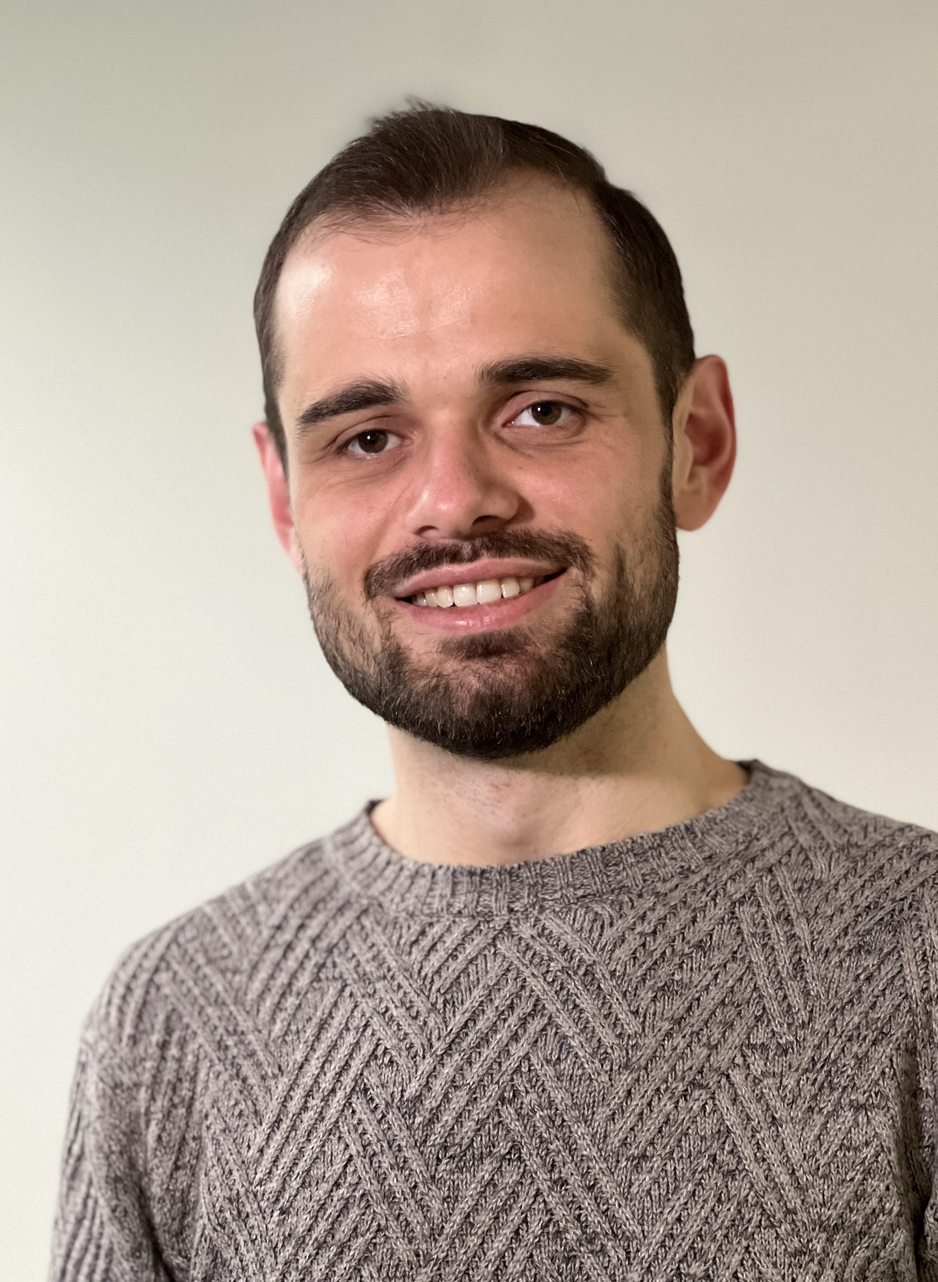
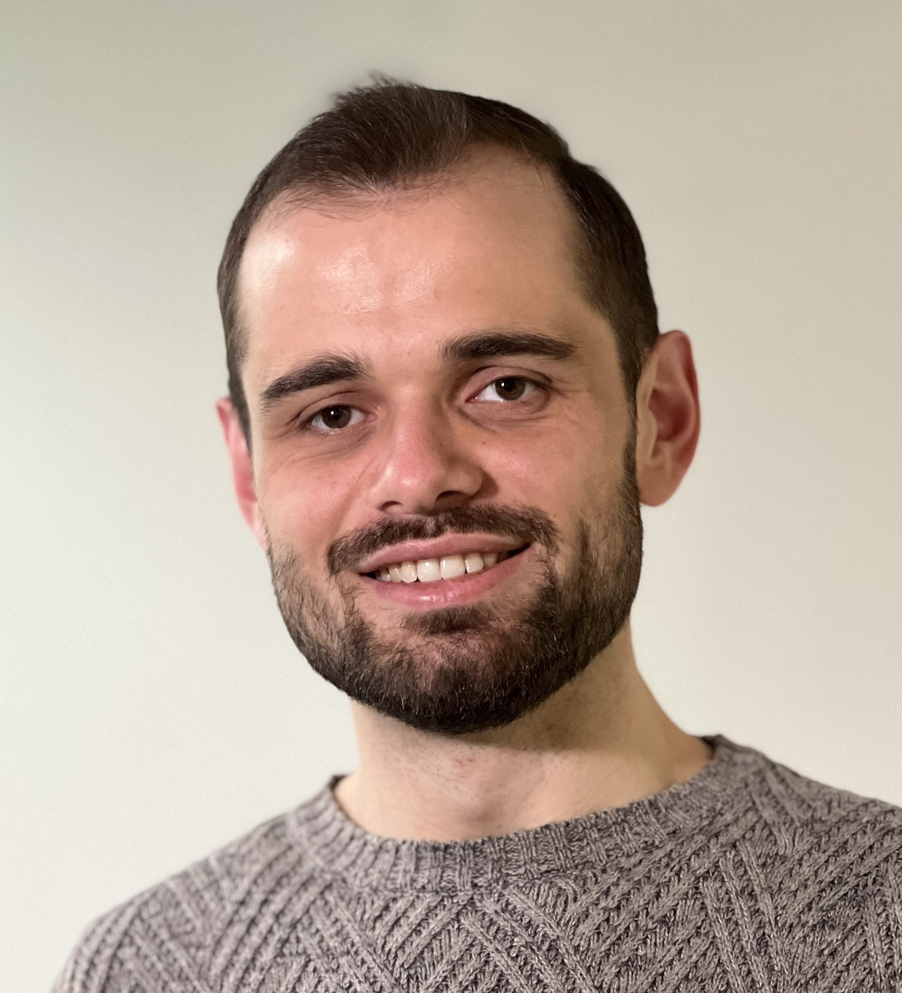
deploy: f099c8f8bb197548e5a86ff91e596ff68f227752

diff --git a/post/social-computing-2020_2021/index.html b/post/social-computing-2020_2021/index.html
@@ -218,7 +218,7 @@ the students. The course is conducted in Italian.</p>
 </ul>
 </div>
 <div class="media author-card content-widget-hr">
-<a href=https://michaelsoprano.com><img class="avatar mr-3 avatar-circle" src=/authors/admin/avatar_hu2347f8c6a0d80f2aa26b5bf3f58114d1_1025127_270x270_fill_q75_lanczos_center.jpg alt="Michael Soprano"></a>
+<a href=https://michaelsoprano.com><img class="avatar mr-3 avatar-circle" src=/authors/admin/avatar_hu88f5d28517d2737b01cd506cf0929cad_816401_270x270_fill_q75_lanczos_center.jpg alt="Michael Soprano"></a>
 <div class=media-body>
 <h5 class=card-title><a href=https://michaelsoprano.com>Michael Soprano</a></h5>
 <h6 class=card-subtitle>Postdoctoral Research Fellow</h6>
@@ -311,8 +311,8 @@ the students. The course is conducted in Italian.</p>
 <h3>Related</h3>
 <ul>
 <li><a href=/post/social-computing-2021_2022/>Social Computing - 2021/2022</a></li>
-<li><a href=/post/social-computing-2022_2023/>Social Computing - 2022/2023</a></li>
 <li><a href=/post/social-computing-2023_2024/>Social Computing - 2022/2023</a></li>
+<li><a href=/post/social-computing-2022_2023/>Social Computing - 2022/2023</a></li>
 <li><a href=/publication/workshop-paper-iir-2023/>Fact-Checking at Scale with Crowdsourcing Experiments and Lessons Learned</a></li>
 <li><a href=/talk/longitudinal-loyalty-understanding-the-barriers-to-running-longitudinal-studies-on-crowdsourcing-platforms/>Longitudinal Loyalty: Understanding the Barriers to Running Longitudinal Studies on Crowdsourcing Platforms</a></li>
 </ul>

diff --git a/publication/workshop-paper-iir-2023/index.html b/publication/workshop-paper-iir-2023/index.html
@@ -231,8 +231,8 @@ Conference paper
 <h3>Related</h3>
 <ul>
 <li><a href=/publication/journal-paper-ipm-2024/>Cognitive Biases in Fact-Checking and Their Countermeasures: A Review</a></li>
-<li><a href=/publication/journal-paper-puc-2021/>Can The Crowd Judge Truthfulness? A Longitudinal Study on Recent Misinformation About COVID-19</a></li>
 <li><a href=/publication/journal-paper-ipm-2021/>The Many Dimensions of Truthfulness: Crowdsourcing Misinformation Assessments on a Multidimensional Scale</a></li>
+<li><a href=/publication/journal-paper-puc-2021/>Can The Crowd Judge Truthfulness? A Longitudinal Study on Recent Misinformation About COVID-19</a></li>
 <li><a href=/publication/conference-paper-facct-2022/>The Effects of Crowd Worker Biases in Fact-Checking Tasks</a></li>
 <li><a href=/talk/can-the-crowd-identify-misinformation-objectively-the-effects-of-judgment-scale-and-assessors-background./>Can The Crowd Identify Misinformation Objectively? The Effects of Judgment Scale and Assessor’s Background.</a></li>
 </ul>

diff --git a/talk/can-the-crowd-identify-misinformation-objectively-the-effects-of-judgment-scale-and-assessors-background./index.html b/talk/can-the-crowd-identify-misinformation-objectively-the-effects-of-judgment-scale-and-assessors-background./index.html
@@ -240,8 +240,8 @@ The 43rd International ACM SIGIR Conference on Research and Development in Infor
 <h3>Related</h3>
 <ul>
 <li><a href=/publication/workshop-paper-iir-2023/>Fact-Checking at Scale with Crowdsourcing Experiments and Lessons Learned</a></li>
-<li><a href=/publication/journal-paper-ipm-2021/>The Many Dimensions of Truthfulness: Crowdsourcing Misinformation Assessments on a Multidimensional Scale</a></li>
 <li><a href=/publication/journal-paper-puc-2021/>Can The Crowd Judge Truthfulness? A Longitudinal Study on Recent Misinformation About COVID-19</a></li>
+<li><a href=/publication/journal-paper-ipm-2021/>The Many Dimensions of Truthfulness: Crowdsourcing Misinformation Assessments on a Multidimensional Scale</a></li>
 <li><a href=/publication/conference-paper-facct-2022/>The Effects of Crowd Worker Biases in Fact-Checking Tasks</a></li>
 <li><a href=/publication/journal-paper-ipm-2024/>Cognitive Biases in Fact-Checking and Their Countermeasures: A Review</a></li>
 </ul>

diff --git a/publication/conference-paper-sigir-2020/index.html b/publication/conference-paper-sigir-2020/index.html
@@ -232,8 +232,8 @@ Conference paper
 <li><a href=/publication/workshop-paper-iir-2023/>Fact-Checking at Scale with Crowdsourcing Experiments and Lessons Learned</a></li>
 <li><a href=/talk/longitudinal-loyalty-understanding-the-barriers-to-running-longitudinal-studies-on-crowdsourcing-platforms/>Longitudinal Loyalty: Understanding the Barriers to Running Longitudinal Studies on Crowdsourcing Platforms</a></li>
 <li><a href=/post/social-computing-2021_2022/>Social Computing - 2021/2022</a></li>
-<li><a href=/post/social-computing-2022_2023/>Social Computing - 2022/2023</a></li>
 <li><a href=/post/social-computing-2023_2024/>Social Computing - 2022/2023</a></li>
+<li><a href=/post/social-computing-2022_2023/>Social Computing - 2022/2023</a></li>
 </ul>
 </div>
 </div>

diff --git a/publication/journal-paper-tois-2023/index.html b/publication/journal-paper-tois-2023/index.html
@@ -232,8 +232,8 @@ Journal article
 <li><a href=/publication/workshop-paper-iir-2023/>Fact-Checking at Scale with Crowdsourcing Experiments and Lessons Learned</a></li>
 <li><a href=/talk/longitudinal-loyalty-understanding-the-barriers-to-running-longitudinal-studies-on-crowdsourcing-platforms/>Longitudinal Loyalty: Understanding the Barriers to Running Longitudinal Studies on Crowdsourcing Platforms</a></li>
 <li><a href=/post/social-computing-2021_2022/>Social Computing - 2021/2022</a></li>
-<li><a href=/post/social-computing-2022_2023/>Social Computing - 2022/2023</a></li>
 <li><a href=/post/social-computing-2023_2024/>Social Computing - 2022/2023</a></li>
+<li><a href=/post/social-computing-2022_2023/>Social Computing - 2022/2023</a></li>
 </ul>
 </div>
 </div>

diff --git a/talk/the-covid-19-infodemic-can-the-crowd-judge-recent-misinformation-objectively/index.html b/talk/the-covid-19-infodemic-can-the-crowd-judge-recent-misinformation-objectively/index.html
@@ -242,7 +242,7 @@ The 29th ACM International Conference on Information and Knowledge Management
 <li><a href=/publication/workshop-paper-iir-2023/>Fact-Checking at Scale with Crowdsourcing Experiments and Lessons Learned</a></li>
 <li><a href=/talk/longitudinal-loyalty-understanding-the-barriers-to-running-longitudinal-studies-on-crowdsourcing-platforms/>Longitudinal Loyalty: Understanding the Barriers to Running Longitudinal Studies on Crowdsourcing Platforms</a></li>
 <li><a href=/post/social-computing-2021_2022/>Social Computing - 2021/2022</a></li>
-<li><a href=/post/social-computing-2022_2023/>Social Computing - 2022/2023</a></li>
+<li><a href=/post/social-computing-2023_2024/>Social Computing - 2022/2023</a></li>
 </ul>
 </div>
 </div>

diff --git a/post/social-computing-2022_2023/index.html b/post/social-computing-2022_2023/index.html
@@ -210,7 +210,7 @@ with their second course assignment. The course is conducted in Italian.</p>
 </ul>
 </div>
 <div class="media author-card content-widget-hr">
-<a href=https://michaelsoprano.com><img class="avatar mr-3 avatar-circle" src=/authors/admin/avatar_hu2347f8c6a0d80f2aa26b5bf3f58114d1_1025127_270x270_fill_q75_lanczos_center.jpg alt="Michael Soprano"></a>
+<a href=https://michaelsoprano.com><img class="avatar mr-3 avatar-circle" src=/authors/admin/avatar_hu88f5d28517d2737b01cd506cf0929cad_816401_270x270_fill_q75_lanczos_center.jpg alt="Michael Soprano"></a>
 <div class=media-body>
 <h5 class=card-title><a href=https://michaelsoprano.com>Michael Soprano</a></h5>
 <h6 class=card-subtitle>Postdoctoral Research Fellow</h6>

diff --git a/post/social-computing-2023_2024/index.html b/post/social-computing-2023_2024/index.html
@@ -210,7 +210,7 @@ with their second course assignment. The course is conducted in Italian.</p>
 </ul>
 </div>
 <div class="media author-card content-widget-hr">
-<a href=https://michaelsoprano.com><img class="avatar mr-3 avatar-circle" src=/authors/admin/avatar_hu2347f8c6a0d80f2aa26b5bf3f58114d1_1025127_270x270_fill_q75_lanczos_center.jpg alt="Michael Soprano"></a>
+<a href=https://michaelsoprano.com><img class="avatar mr-3 avatar-circle" src=/authors/admin/avatar_hu88f5d28517d2737b01cd506cf0929cad_816401_270x270_fill_q75_lanczos_center.jpg alt="Michael Soprano"></a>
 <div class=media-body>
 <h5 class=card-title><a href=https://michaelsoprano.com>Michael Soprano</a></h5>
 <h6 class=card-subtitle>Postdoctoral Research Fellow</h6>

diff --git a/post/social-computing-2021_2022/index.html b/post/social-computing-2021_2022/index.html
@@ -219,7 +219,7 @@ the students. The course is conducted in Italian.</p>
 </ul>
 </div>
 <div class="media author-card content-widget-hr">
-<a href=https://michaelsoprano.com><img class="avatar mr-3 avatar-circle" src=/authors/admin/avatar_hu2347f8c6a0d80f2aa26b5bf3f58114d1_1025127_270x270_fill_q75_lanczos_center.jpg alt="Michael Soprano"></a>
+<a href=https://michaelsoprano.com><img class="avatar mr-3 avatar-circle" src=/authors/admin/avatar_hu88f5d28517d2737b01cd506cf0929cad_816401_270x270_fill_q75_lanczos_center.jpg alt="Michael Soprano"></a>
 <div class=media-body>
 <h5 class=card-title><a href=https://michaelsoprano.com>Michael Soprano</a></h5>
 <h6 class=card-subtitle>Postdoctoral Research Fellow</h6>

diff --git a/publication/conference-paper-aiudc-2019/index.html b/publication/conference-paper-aiudc-2019/index.html
@@ -229,7 +229,7 @@ Conference paper
 <li><a href=/publication/workshop-paper-iir-2023/>Fact-Checking at Scale with Crowdsourcing Experiments and Lessons Learned</a></li>
 <li><a href=/talk/longitudinal-loyalty-understanding-the-barriers-to-running-longitudinal-studies-on-crowdsourcing-platforms/>Longitudinal Loyalty: Understanding the Barriers to Running Longitudinal Studies on Crowdsourcing Platforms</a></li>
 <li><a href=/post/social-computing-2021_2022/>Social Computing - 2021/2022</a></li>
-<li><a href=/post/social-computing-2023_2024/>Social Computing - 2022/2023</a></li>
+<li><a href=/post/social-computing-2022_2023/>Social Computing - 2022/2023</a></li>
 </ul>
 </div>
 </div>

diff --git a/publication/conference-paper-ircdl-2019/index.html b/publication/conference-paper-ircdl-2019/index.html
@@ -229,7 +229,7 @@ Conference paper
 <li><a href=/publication/workshop-paper-iir-2023/>Fact-Checking at Scale with Crowdsourcing Experiments and Lessons Learned</a></li>
 <li><a href=/talk/longitudinal-loyalty-understanding-the-barriers-to-running-longitudinal-studies-on-crowdsourcing-platforms/>Longitudinal Loyalty: Understanding the Barriers to Running Longitudinal Studies on Crowdsourcing Platforms</a></li>
 <li><a href=/post/social-computing-2021_2022/>Social Computing - 2021/2022</a></li>
-<li><a href=/post/social-computing-2023_2024/>Social Computing - 2022/2023</a></li>
+<li><a href=/post/social-computing-2022_2023/>Social Computing - 2022/2023</a></li>
 </ul>
 </div>
 </div>

diff --git a/publication/conference-paper-wsdm-2022/index.html b/publication/conference-paper-wsdm-2022/index.html
@@ -231,7 +231,7 @@ Conference paper
 <li><a href=/publication/workshop-paper-iir-2023/>Fact-Checking at Scale with Crowdsourcing Experiments and Lessons Learned</a></li>
 <li><a href=/talk/longitudinal-loyalty-understanding-the-barriers-to-running-longitudinal-studies-on-crowdsourcing-platforms/>Longitudinal Loyalty: Understanding the Barriers to Running Longitudinal Studies on Crowdsourcing Platforms</a></li>
 <li><a href=/post/social-computing-2021_2022/>Social Computing - 2021/2022</a></li>
-<li><a href=/post/social-computing-2023_2024/>Social Computing - 2022/2023</a></li>
+<li><a href=/post/social-computing-2022_2023/>Social Computing - 2022/2023</a></li>
 </ul>
 </div>
 </div>
